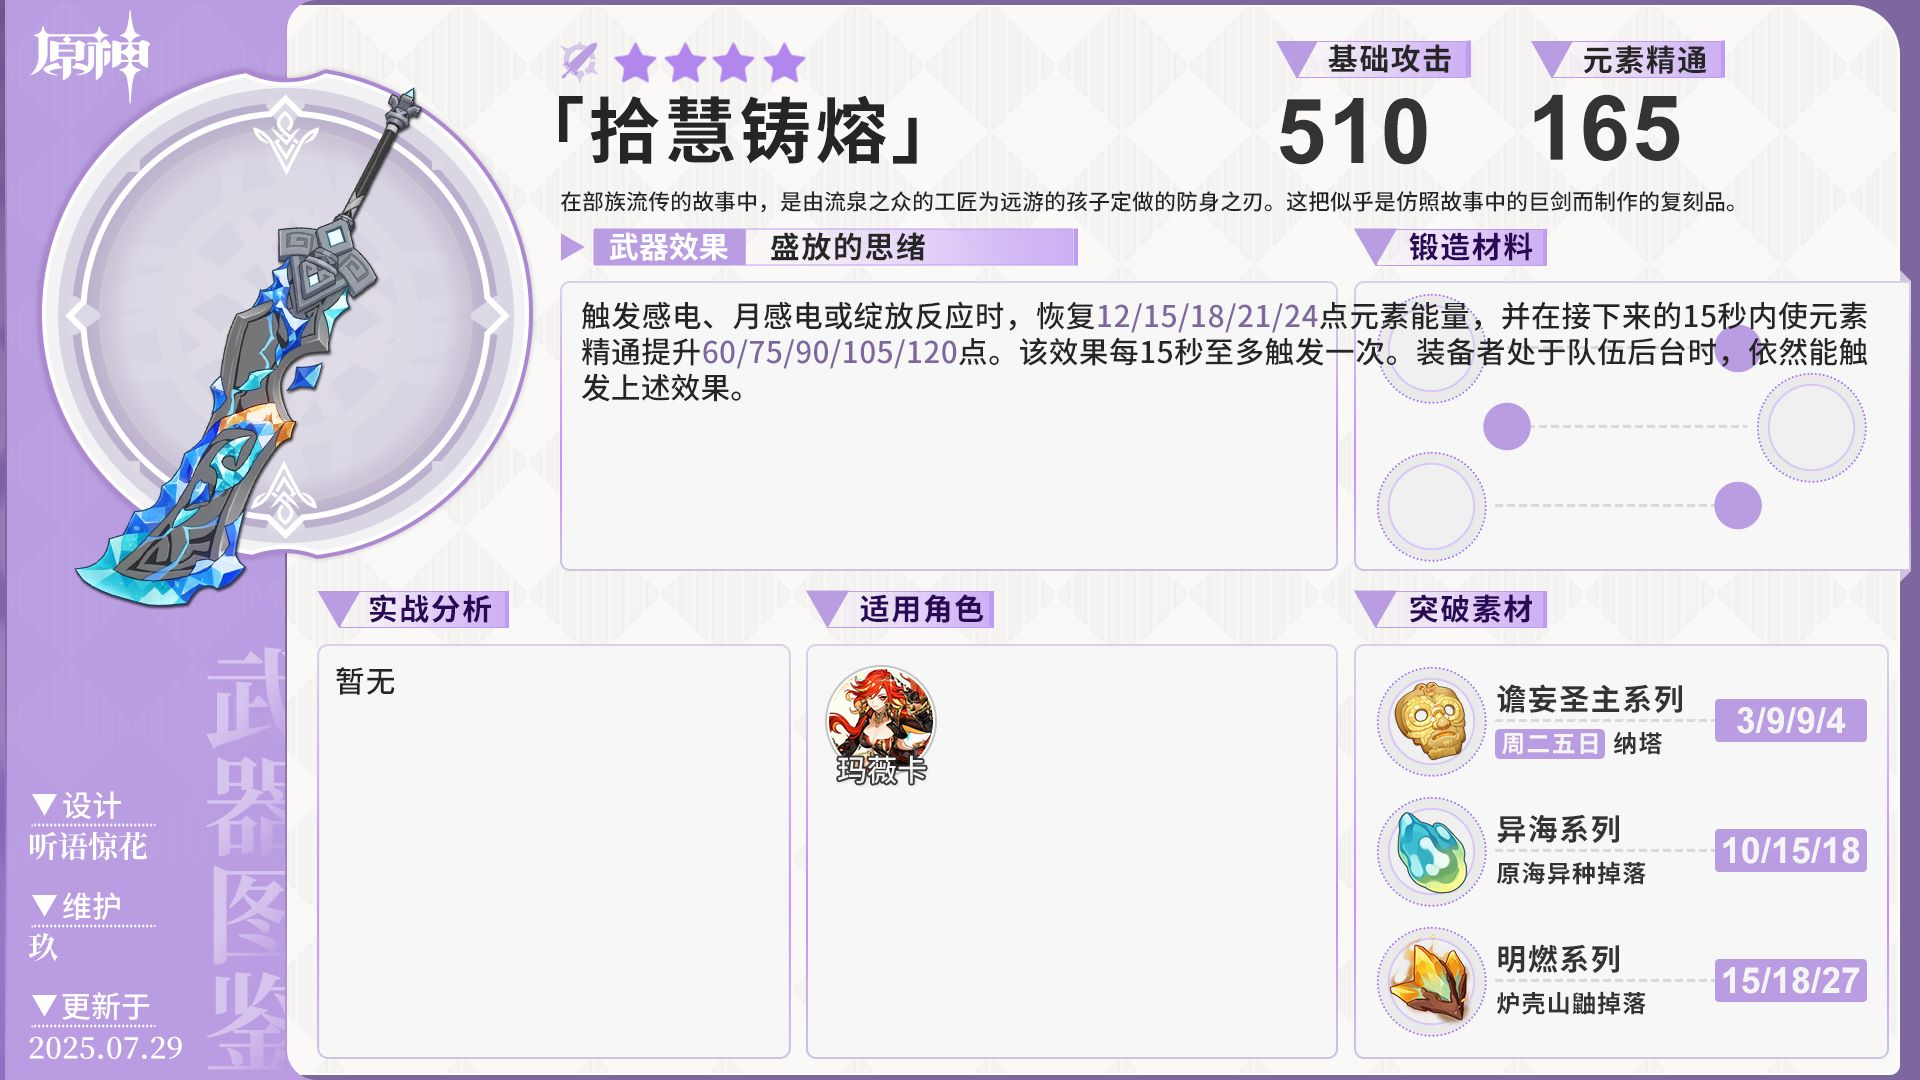
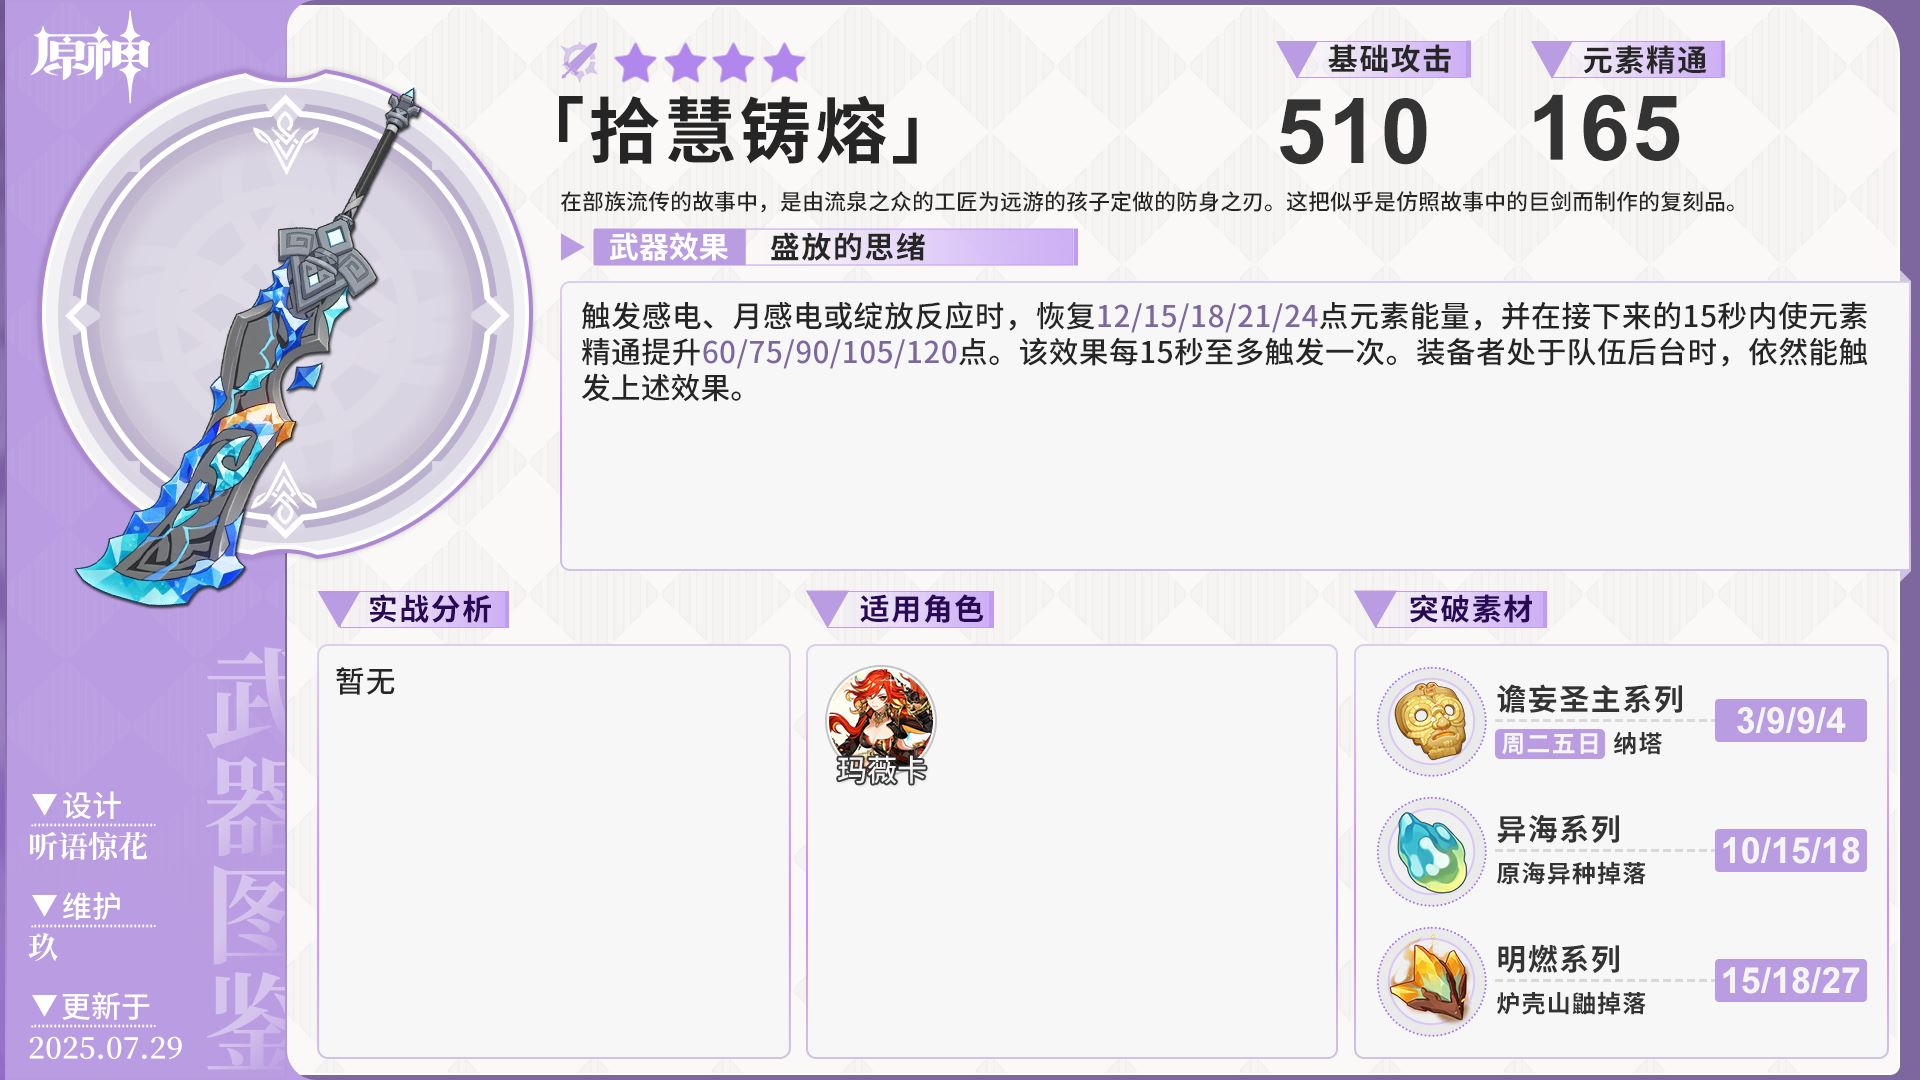
更新6.1部分图鉴

diff --git a/README.md b/README.md
@@ -4,8 +4,8 @@ Genshin-Atlas是一个主要由[`米游社@听语惊花`](https://bbs.mihoyo.com
 目前部分图片由@玖喵（QQ：2014340648）在维护，感谢各位共创者的大力支持。
 
 ## 目录结构
-- [x] 武器图鉴（更新至6.0）
-- [x] 角色材料（更新至6.0）
+- [x] 武器图鉴（更新至6.1）
+- [x] 角色材料（更新至6.1）
 - [x] 圣遗物图鉴（更新至6.0）
 - [x] 原魔图鉴（更新至5.6）
 - [x] 区域特产（更新至4.0）
